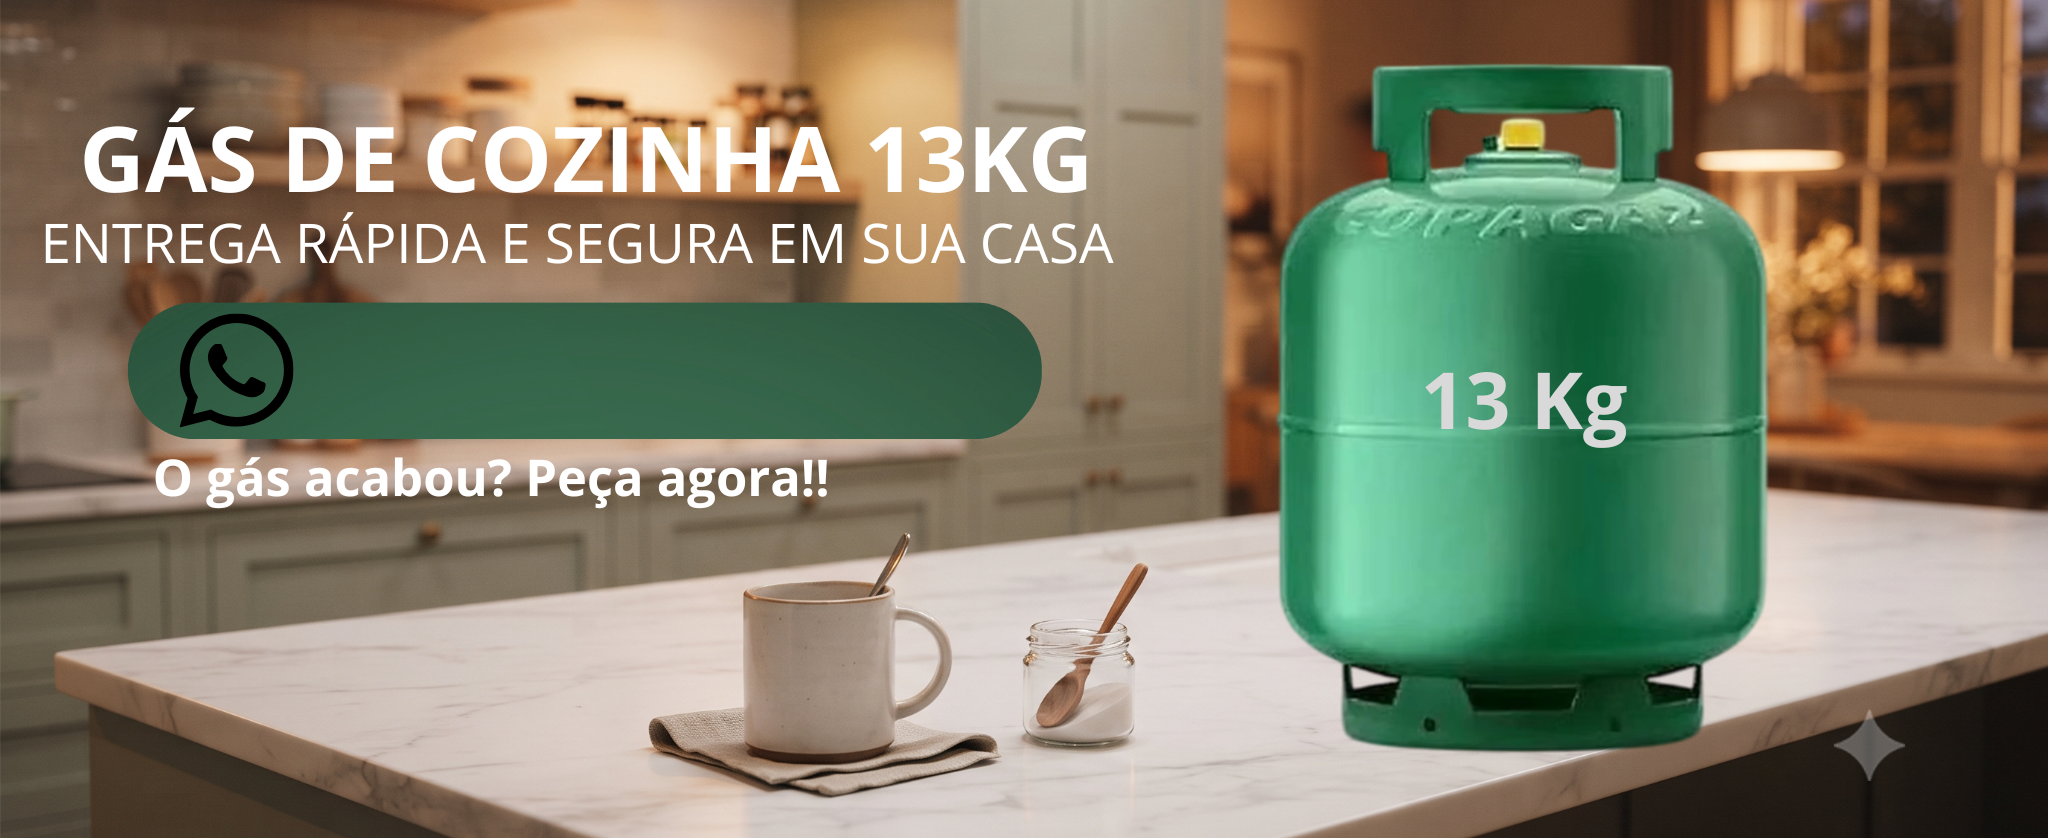
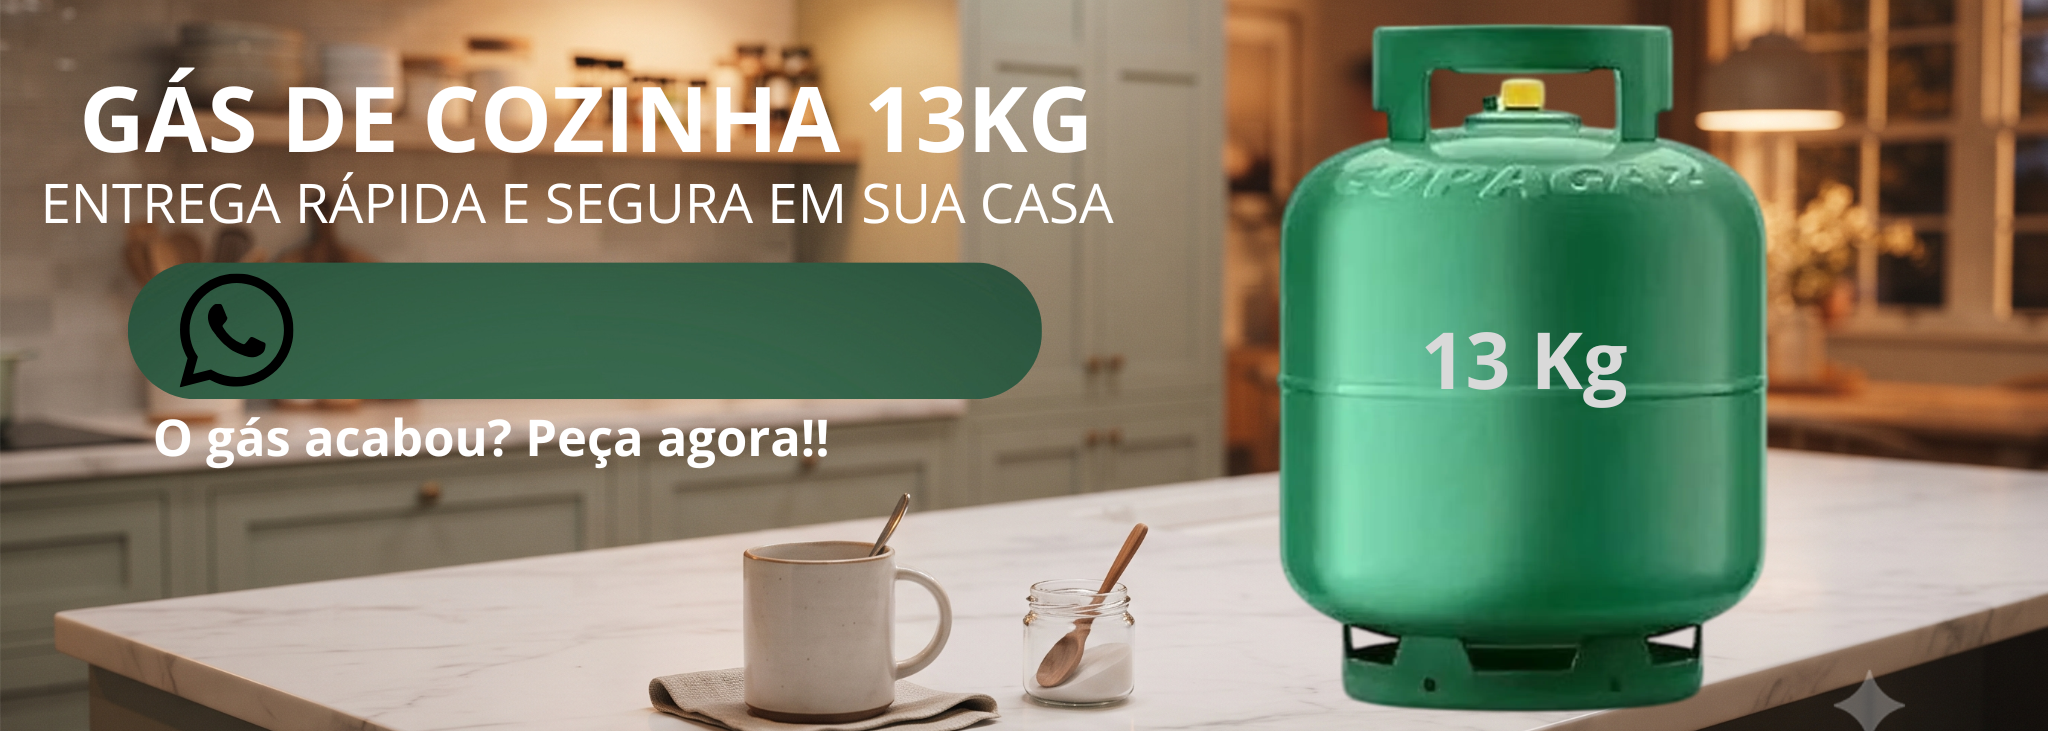
subir

diff --git a/3º Sem/Desenvolvimento Voltado para Web/meusite/index.html b/3º Sem/Desenvolvimento Voltado para Web/meusite/index.html
@@ -11,7 +11,7 @@
         <!-- Lado esquerdo - Logo -->
         <div class="site-header_brand">
             <img src="/img/logo.png" alt="Logo do site" class="site-header_logo">
-            <span class="site-header_title">Gás Califórnia</span>
+            <span class="site-header_title">Gás <br>Califórnia</span>
         </div>
 
         <!-- Centro - Pesquisa Global -->
@@ -41,9 +41,9 @@
 
         <!-- Seção de Benefícios -->
          <section class="benefits-section">
-            <div class="benefit-card">Entrega Veloz</div>
-            <div class="benefit-card">Pagamento na Entrega</div>
-            <div class="benefit-card">Atendimento Confiável</div>
+            <div class="benefit-card"><span>Entrega Veloz</span> <br>Agilidade total em Maracaju. Pediu, chegou rápido na sua cozinha com toda a segurança.</div>
+            <div class="benefit-card"><span>Pagamento na Entrega</span> <br>Aceitamos dinheiro, PIX ou cartão diretamente na entrega, para sua total tranquilidade.</div>
+            <div class="benefit-card"><span>Atendimento Confiável</span> <br>Tradição e confiança de quem entende do assunto, garantindo um produto original e lacrado.</div>
          </section>
 
     </main>

diff --git a/3º Sem/Desenvolvimento Voltado para Web/meusite/css/style.css b/3º Sem/Desenvolvimento Voltado para Web/meusite/css/style.css
@@ -24,9 +24,9 @@ body {
 }
 
 .site-header_title {
-    font-size: 24px;
+    font-size: 20px;
     font-weight: bold;
-    color: #0f4c81;
+    color: black;
     left: 10px;
 }
 
@@ -55,7 +55,7 @@ body {
 /* 2. CONTEÚDO PRINCIPAL */
 .hero-photo img{
     width: 100%;
-    max-height: 450px;
+    max-height: 400px;
 }
 
 .benefits-section {
@@ -63,11 +63,21 @@ body {
     justify-content: center;
     gap: 20px;
     padding: 40px 20px; 
+
+    margin-top: -60px;
+    position: relative;
+    z-index: 10;
 }
 
 .benefit-card{
     background: #ffffff;
     padding: 20px;
     border-radius: 8px;
-    box-shadow: 0 2px 5px rgba(0,0,0,0.1);
+    box-shadow: 0 4px 10px rgba(0,0,0,0.15);
+}
+
+.benefit-card span{
+    display: block;
+    text-align: center;
+    font-weight: bold;
 }
